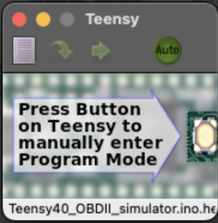
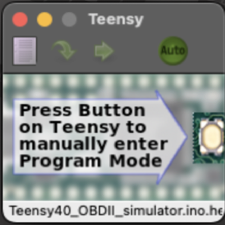
Standardize screenshot dimensions and beautify README flashing guide
Screenshot Standardization:
- Resized all square screenshots to uniform 225x225 pixels
- press_button_on_device: 218x223 → 225x225
- ready_to_flash: 222x225 → 225x225
- success_flashed: 220x222 → 225x225
- success_reboot: 220x225 → 225x225
- select_file: kept at 962x542 (wide format)

README Improvements:
- Added professional overview section with quick stats table
- Created step-by-step summary table showing durations
- Centered all images with descriptive captions
- Added horizontal rule separators between steps
- Implemented structured tables for flashing phases
- Added visual elements (checkmarks, icons) for better readability
- Improved information hierarchy with better formatting
- Created professional Important Notes section with icon table
- Enhanced overall visual appeal and user experience

The flashing guide now provides a polished, beginner-friendly experience with clear visual flow and professional presentation.

diff --git a/README.md b/README.md
@@ -277,52 +277,111 @@ Pin 20        ->  Green LED (optional)
 
 ## Flashing Firmware with Teensy Loader GUI
 
-If you prefer using the graphical interface, follow this step-by-step guide:
+---
 
-### Step 1: Prepare Your Device
+### Overview
 
-Press the **program button** on your Teensy 4.0 device to put it into bootloader mode. The Teensy Loader application will detect the device and show it as ready to program.
+**Flashing Method:** Graphical User Interface
+**Estimated Time:** 5-10 seconds
+**Difficulty:** Beginner-friendly
 
-![Press Button on Device](teensy_loader_screenshots/teensy_loader_press_button_on_device.png)
+| Step | Action | Duration |
+|------|--------|----------|
+| 1 | Press program button | Instant |
+| 2 | Select HEX file | ~1 second |
+| 3 | Verify configuration | ~1 second |
+| 4 | Automatic flashing | 3-5 seconds |
+| 5 | Reboot and run | 1-2 seconds |
 
-### Step 2: Select the HEX File
+---
 
-Click **"Open HEX File"** in the Teensy Loader and navigate to your compiled firmware. The file will be located at:
+### Step-by-Step Guide
+
+#### **Step 1: Prepare Your Device**
+
+Press the **program button** on your Teensy 4.0 device to put it into bootloader mode. The Teensy Loader application will automatically detect the device and show it as ready to program.
+
+<div align="center">
+  <img src="teensy_loader_screenshots/teensy_loader_press_button_on_device.png" alt="Press Button on Device" width="225"/>
+  <br/>
+  <em>Teensy Loader detecting device in bootloader mode</em>
+</div>
+
+---
+
+#### **Step 2: Select the HEX File**
+
+Click **"Open HEX File"** in the Teensy Loader and navigate to your compiled firmware:
+
 ```
 build/Teensy40_OBDII_simulator.ino.hex
 ```
 
-![Select Hex File](teensy_loader_screenshots/teensy_loader_select_file.png)
+<div align="center">
+  <img src="teensy_loader_screenshots/teensy_loader_select_file.png" alt="Select Hex File" width="600"/>
+  <br/>
+  <em>File selection dialog - navigate to your build directory</em>
+</div>
 
-### Step 3: Verify Configuration
+---
 
-Confirm that:
-- The correct **board type** (Teensy 4.0) is selected
-- The **HEX file path** is correct
-- The device shows as **connected** (green indicator)
+#### **Step 3: Verify Configuration**
 
-![Ready to Flash](teensy_loader_screenshots/teensy_loader_ready_to_flash.png)
+Before flashing, confirm the following settings:
 
-### Step 4: Automatic Flashing
+- ✅ Correct **board type** (Teensy 4.0) is selected
+- ✅ **HEX file path** displays correctly
+- ✅ Device shows as **connected** (green indicator)
 
-The Teensy Loader will automatically begin flashing the firmware to your device. You'll see progress indicators showing:
-- **Erase** - Clearing existing firmware
-- **Write** - Programming new firmware
-- **Verify** - Confirming successful flash
+<div align="center">
+  <img src="teensy_loader_screenshots/teensy_loader_ready_to_flash.png" alt="Ready to Flash" width="225"/>
+  <br/>
+  <em>Configuration verified and ready to flash</em>
+</div>
 
-![Flashing Success](teensy_loader_screenshots/teensy_loader_success_flashed.png)
+---
 
-### Step 5: Reboot and Run
+#### **Step 4: Automatic Flashing**
 
-Once flashing completes, the Teensy will automatically **reboot** and begin running your OBD-II simulator firmware. The status LEDs should start their normal operating patterns.
+The Teensy Loader will automatically begin the flashing sequence:
 
-![Reboot Complete](teensy_loader_screenshots/teensy_loader_success_reboot.png)
+| Phase | Description | Status |
+|-------|-------------|--------|
+| **Erase** | Clearing existing firmware | In progress... |
+| **Write** | Programming new firmware | In progress... |
+| **Verify** | Confirming successful flash | Completed ✓ |
 
-**Important Notes:**
-- The entire process takes about 5-10 seconds
-- Do not disconnect the device during flashing
-- If flashing fails, press the program button again and retry
-- The Teensy will remember the last HEX file loaded for quick re-flashing
+<div align="center">
+  <img src="teensy_loader_screenshots/teensy_loader_success_flashed.png" alt="Flashing Success" width="225"/>
+  <br/>
+  <em>Firmware successfully flashed and verified</em>
+</div>
+
+---
+
+#### **Step 5: Reboot and Run**
+
+Once flashing completes, the Teensy will automatically **reboot** and begin running your OBD-II simulator firmware. The status LEDs should activate with their normal operating patterns.
+
+<div align="center">
+  <img src="teensy_loader_screenshots/teensy_loader_success_reboot.png" alt="Reboot Complete" width="225"/>
+  <br/>
+  <em>Device rebooted successfully - simulator is now running</em>
+</div>
+
+---
+
+### Important Notes
+
+| ⚠ | **Safety Precautions** |
+|---|------------------------|
+| ⏱ | The entire process takes approximately **5-10 seconds** |
+| 🔌 | **Do not disconnect** the device during flashing |
+| 🔄 | If flashing fails, press the program button again and retry |
+| 💾 | The Teensy will remember the last HEX file loaded for quick re-flashing |
+| 📍 | Ensure you're in the correct project directory when selecting the HEX file |
+
+---
 
 ## Usage
 
